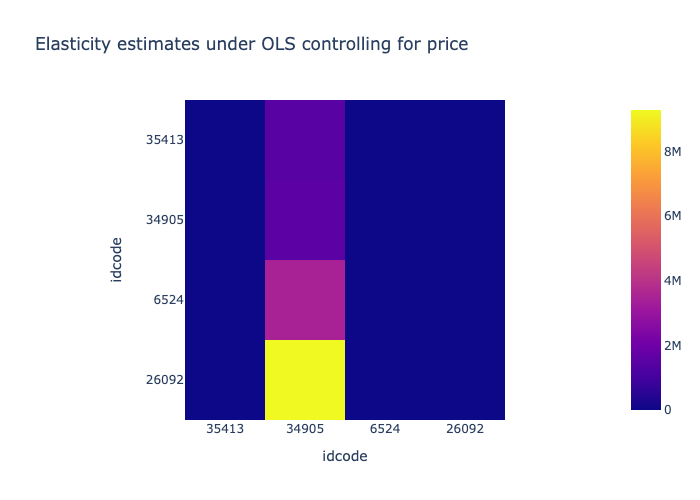
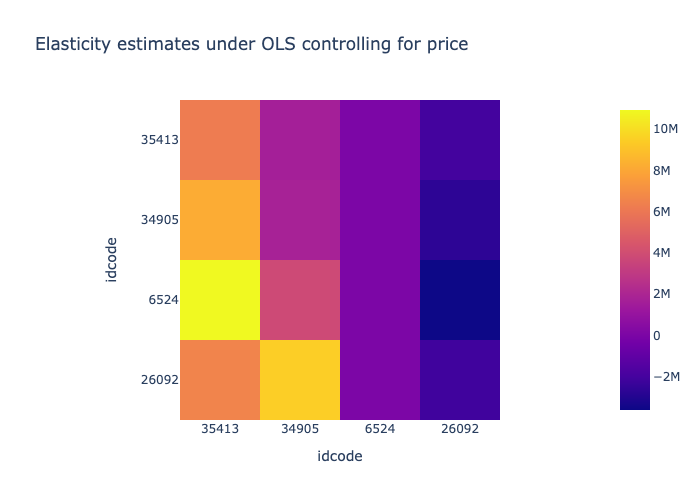
structure to code

diff --git a/empirical_ps/estimate_funcs.py b/empirical_ps/estimate_funcs.py
@@ -1,38 +1,102 @@
-# TODO: how to add market size or outside good?
+import pandas as pd
+import numpy as np
+import pyblp
+import plotly.express as px
+from sklearn.linear_model import LinearRegression
+import ipdb
 
 
-df["product_ids"] = df["idcode"]
-df["prices"] = df["price"]
-df["shares"] = df["mshare"]
-df["market_ids"] = df.index.get_level_values('date').astype(str) +"_"+ df.index.get_level_values('storenum').astype(str)
-df["demand_instruments0"] = df["price"]
+def est_demand_ols(df):
+	# Based on plots, do some data filtration
+	
+	top_N = 4
+	top_wines = df.groupby(level = 0).sum()["numbot"].sort_values(ascending = False).reset_index()[:top_N].idcode
+	df = df.reset_index()
+	df = df.loc[pd.Series(df.idcode).isin(top_wines)]
 
-# Specification 3 & 4, product characteristics
-logit_formulation = pyblp.Formulation('prices + proof + variet')
-problem = pyblp.Problem(logit_formulation, df)
-logit_results_characteristics = problem.solve()
+	df_prices = df.pivot(index=["date", "storenum"], columns = "idcode", values='lnprice')
+
+	df = df.set_index(["date", "storenum"])
+	df = df.join(df_prices)
+	df = df.dropna()
+	df["lnq"] = np.log(df["numbot"])
+
+	df["lnq"].describe()
+	df["lnprice"].describe()
+
+	df["Wine_id"] = df["idcode"].astype(str)
+	fig = px.scatter(df, x = "lnq", y = "lnprice", color = "Wine_id", trendline = "ols")
+	fig.show()
+	fig.write_image("figures/price_quant.png")
+
+	els = []
+	for wine in top_wines:
+		X = df.loc[df.idcode == wine, df.columns.isin(top_wines)]
+		Y = df.loc[df.idcode == wine, "lnq"]
+		reg = LinearRegression().fit(X, Y)
+		els.append(reg.coef_)
+
+	els = pd.DataFrame(els)
+	els.index = top_wines
+	els.index = els.index.map(str)
+	els.columns = top_wines
+	els.columns = els.columns.map(str)
+
+	fig = px.imshow(els, title = "Elasticity estimates under OLS controlling for price") 
+	fig.write_image("figures/elasticities_ols.png")
+	return
 
 
-# Specification 5, fixed effects
-logit_formulation = pyblp.Formulation('prices', absorb='C(product_ids)')
-problem = pyblp.Problem(logit_formulation, df)
-logit_results_fe = problem.solve()
+# TODO: Do this before cutting away values
+def calc_shares(df, k):
+	'''
+	k is the constant used to define the market size
+	'''
+	Msize = df["numbot"].groupby(level = [0,1]).sum().groupby(level = [1]).max() * k # Max bought over time, multiuplied by constant
+	df = df.join(Msize, rsuffix = "_market")
+	df["shares"] = df["numbot"] / df["numbot_market"]
+	return(df)
 
-# Specification 6, BLP styled instruments
-df["demand_instruments0"] = df["proof"].groupby(level = [0,1]).sum() - df["proof"]
-df["demand_instruments1"] = df["merlot"].groupby(level = [0,1]).sum() - df["merlot"]
-logit_formulation = pyblp.Formulation('prices')
-problem = pyblp.Problem(logit_formulation, df)
-logit_results_blp = problem.solve()
+def set_names(df):
+	
+	df["product_ids"] = df.index.get_level_values('idcode')
+	df["prices"] = df["price"]
+	df["market_ids"] = df.index.get_level_values('date').astype(str) +"_"+ df.index.get_level_values('storenum').astype(str)
+	df["demand_instruments0"] = df["price"]
+	return(df)
 
-# Specification 7, countries as nests
+def est_prod_char(df):
+	# Specification 3 & 4, product characteristics
+	logit_formulation = pyblp.Formulation('prices + proof + variet')
+	problem = pyblp.Problem(logit_formulation, df)
+	logit_results_characteristics = problem.solve()
+	return()
 
-df["nesting_ids"] = df["national"]
-groups = df.groupby(["market_ids", "nesting_ids"])
-df["demand_instruments20"] = groups["shares"].transform(np.size)
-nl_formulation = pyblp.Formulation('0 + prices')
-problem = pyblp.Problem(nl_formulation, df)
-nl_results = problem.solve(rho = 0.7)
+def est_fe(df):
+	# Specification 5, fixed effects
+	logit_formulation = pyblp.Formulation('prices', absorb='C(product_ids)')
+	problem = pyblp.Problem(logit_formulation, df)
+	logit_results_fe = problem.solve()
+	return
+
+def est_blp_instrument():
+	# Specification 6, BLP styled instruments
+	df["demand_instruments0"] = df["proof"].groupby(level = [0,1]).sum() - df["proof"]
+	df["demand_instruments1"] = df["merlot"].groupby(level = [0,1]).sum() - df["merlot"]
+	logit_formulation = pyblp.Formulation('prices')
+	problem = pyblp.Problem(logit_formulation, df)
+	logit_results_blp = problem.solve()
+	return
+
+def est_nests(df):
+	# Specification 7, countries as nests
+	df["nesting_ids"] = df["national"]
+	groups = df.groupby(["market_ids", "nesting_ids"])
+	df["demand_instruments20"] = groups["shares"].transform(np.size)
+	nl_formulation = pyblp.Formulation('0 + prices')
+	problem = pyblp.Problem(nl_formulation, df)
+	nl_results = problem.solve(rho = 0.7)
+	return
 
 def extract_estimation_results(results, path):
 	''' Calculate elasticities, markups, marginal costs, and create plots

diff --git a/empirical_ps/empio_main.py b/empirical_ps/empio_main.py
@@ -12,11 +12,12 @@ import ipdb
 import plotly.express as px
 from sklearn import datasets, linear_model
 import pyblp
+from estimate_funcs import est_demand_ols, calc_shares, set_names, est_prod_char, est_fe, est_blp_instrument, est_nests, extract_estimation_results
 
 # Store x time is a 'market'
 # What about outside option here?
 ### TMP ############################################
-df.loc[df.idcode == 35413, df.columns.isin(top_wines)]
+#df.loc[df.idcode == 35413, df.columns.isin(top_wines)]
 
 #TMP end ############################################
 # 0. Load data
@@ -24,59 +25,40 @@ df.loc[df.idcode == 35413, df.columns.isin(top_wines)]
 df = pd.read_excel("data/wine_ps2.xls")
 df = df.dropna()
 df = df.set_index(["idcode", "storenum", "date"])
-
+MSIZE_k = 2
+df["price"] = df["p"]
+df["lnprice"] = np.log(df["price"])
 
 # 1. Descriptive statistics
 # Number of products
 plot_all(df)
 
-# Based on plots, do some data filtration
-df["price"] = df["p"] / df["fx"]
-df["lnprice"] = np.log(df["price"])
-df = df[df["lnprice"] < 6]
+
 
 # 2. Estimate demand for wine
 # Problem with this specification: prices are endogenous
 # Additional issue: how seaprated are the markets? Some SUTVA might be violated
-top_N = 4
-top_wines = df.groupby(level = 0).sum()["numbot"].sort_values(ascending = False).reset_index()[:top_N].idcode
-df = df.reset_index()
-df = df.loc[pd.Series(df.idcode).isin(top_wines)]
+est_demand_ols(df)
 
-df_prices = df.pivot(index=["date", "storenum"], columns = "idcode", values='lnprice')
-
-df = df.set_index(["date", "storenum"])
-df = df.join(df_prices)
-df = df.dropna()
-df["lnq"] = np.log(df["numbot"])
-
-df["lnq"].describe()
-df["lnprice"].describe()
-
-df["Wine_id"] = df["idcode"].astype(str)
-fig = px.scatter(df, x = "lnq", y = "lnprice", color = "Wine_id", trendline = "ols")
-fig.show()
-fig.write_image("figures/price_quant.png")
-
-els = []
-for wine in top_wines:
-	X = df.loc[df.idcode == wine, df.columns.isin(top_wines)]
-	Y = df.loc[df.idcode == wine, "lnq"]
-	reg = LinearRegression().fit(X, Y)
-	els.append(reg.coef_)
-
-els = pd.DataFrame(els)
-els.index = top_wines
-els.index = els.index.map(str)
-els.columns = top_wines
-els.columns = els.columns.map(str)
-
-fig = px.imshow(els, title = "Elasticity estimates under OLS controlling for price") 
-fig.write_image("figures/elasticities_ols.png")
+# BLP estimation
+df = calc_shares(df, MSIZE_k)
+df = set_names(df)
+# Swithching to BLP package here. 
+# 3 and 4
+results = est_prod_char(df)
+extract_estimation_results(results)
+# 5
+results_fe = est_fe(df)
+extract_estimation_results(results_fe)
+# 6
+results_blp = est_blp_instrument(df)
+extract_estimation_results(results_blp)
+# 7
+results_nl = est_nests(df)
+extract_estimation_results(results_nl)
 
 
-
-# TODO: maybe I should switch completely to the BLP package here. 
+'''
 
 # 3. Berry 1994, Estimation. Estimate demand using discrtete choice a la Berry (1994) using observable product characteristics
 Msize = df["numbot"].groupby(level = [0,1]).sum().groupby(level = [1]).max()*3 # Max bought over time, multiuplied by constant

diff --git a/empirical_ps/plotting.py b/empirical_ps/plotting.py
@@ -11,6 +11,7 @@ import plotly.graph_objects as go
 def plot_all(df):
 	# Price distribution
 	df["price"] = df["p"]
+	df["lnprice"] = df["p"]
 	fig_lnp = px.histogram(df, x="lnprice").\
 	update_layout(xaxis_title = "Log Price", yaxis_title = "Count")
 	fig_p = px.histogram(df, x="price").\

diff --git a/empirical_ps/main.md b/empirical_ps/main.md
@@ -6,7 +6,7 @@ The problem set was solved using `python` and relies on the package `pyblp` by C
 
 ## Descriptive Statistics
 
- Since we want to estimate demand for wine, important variables in the dataset `wine_ps2.dta` include the price variabel `p`, which denotes the nominal price, and the quantity variable `numbot`. The unit of observation are `idcode`, which identifies a wine, `date`, which denotes a unit of time (presumably week), and `storenum`, which is a code identifying an individual store. `numbot` is consequenlty the number of bottles sold of a particular wine in a given store in a given point in time. In total, there are 31798 such observations, although I drop observations with NAs leaving me with 27189 observations. 
+ Since we want to estimate demand for wine, important variables in the dataset `wine_ps2.dta` include the price variabel `p`, which denotes the nominal price, and the quantity variable `numbot`. The unit of observation are `idcode`, which identifies a wine, `date`, which denotes a unit of time (presumably week), and `storenum`, which is a code identifying an individual store. `numbot` is consequenlty the number of bottles sold of a particular wine in a given store in a given point in time. We can think of store and time as jointly defining a "market", which will be a useful concept when estimating the demand system. In total, there are 31798 wine-market observations, although I drop observations with NAs leaving me with 27189 observations. 
 
 We begin by plotting the distribution of this price variable: 
 
@@ -76,11 +76,13 @@ Having estimates of $\alpha$, we can then back out own and crossprice elasticiti
 
 There are several specifications for which we will repeat the exercise and we begin with the most simple.
 
+For all specifications I will define the total market size as a constant multiplied by the store maximum number of bottles sold at any point in time. Using the maximal sales in a given store provides a lower bound for the total market size of a store-time combination assuming that there is no large change in population. I let the multiplying constant be 2, meaning that people can drink at most twice as much as the record observed in the data.
+
+
 ### Estimation using product characteristics
 
 ### Estimation using the fixed-effects estimator
 Under the fixed effects estimator, the parameters $(\alpha, \beta)$ can be identified by assuming $E[\eta_{jm} \vert \mathbf{x}_{jm}'] = 0$ and $E[\eta_{jm} \vert p_{jm}]=0$, i.e. prices are exogenous. If we find that $\alpha < 0$, we might have endogeneity problems since rthis would mean that consumers' utility increase with prices. 
-
 
 ### Estimation using BLP-style instruments
 
